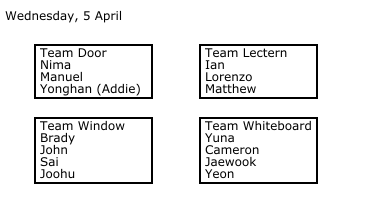
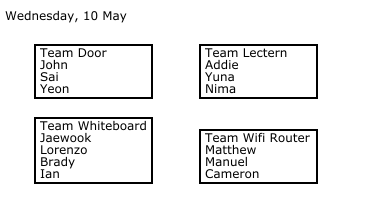
update for 2023 classroom

diff --git a/makeSmallGroups.py b/makeSmallGroups.py
@@ -26,10 +26,10 @@ def makeSmallGroups():
     if courseNumber == 'M227C':
         ySize = 200
         Teams_list = [
-            ['Lectern',   [200, 102, 117, 70], 3], # x, y, width, height, number of students
-            ['Window',    [ 35,  17, 117, 70], 4],
-            ['Whiteboard',[200,  17, 117, 70], 4],
-            ['Door',      [ 35, 102, 117, 70], 3]#,
+            ['Lectern',    [200, 102, 117, 70], 3], # x, y, width, height, number of students
+            ['Whiteboard', [ 35,  17, 117, 70], 4],
+            ['Wifi Router',[200,  17, 117, 70], 3],
+            ['Door',       [ 35, 102, 117, 70], 3]#,
             #['Projector',    [125,  17, 117, 70], 3]
             ]
         datepos = [5, 20]
